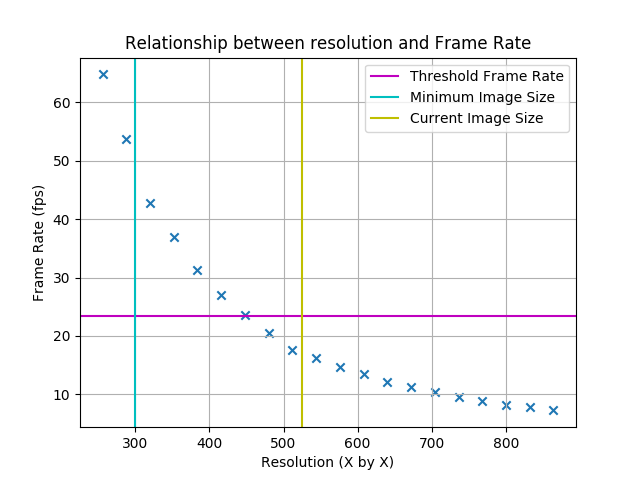
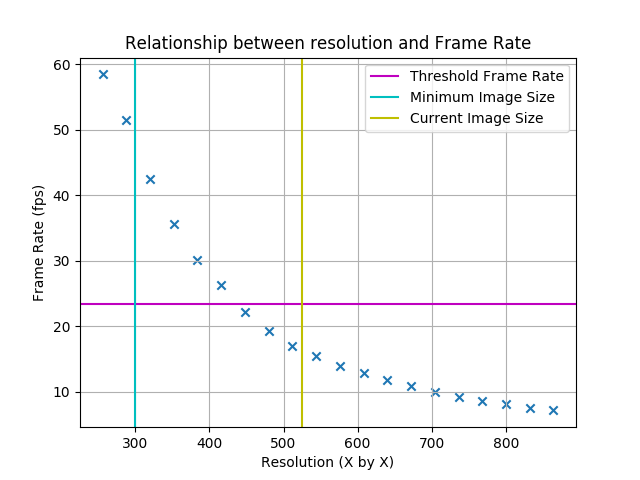
Added framerate script and data file

diff --git a/YUVLumaAnalysis.py b/YUVLumaAnalysis.py
@@ -12,7 +12,7 @@ class YUVLumaAnalysis(array.PiYUVAnalysis):
     #Extends the picamera.array.PiYUVAnalysis class, which has a stub method called analze that is overidden here.
     
     
-    def __init__(self, camera, ref_frames = None, frame_num = 0, make_refs = True, size=None):
+    def __init__(self, camera, ref_frames = None, frame_num = 1, make_refs = True, size=None):
         
         #initialises relevant variables as class attributes. This is the best way i could think of to pass 
         #any external variables needed for analysis to this class (is there a better way? Not sure in Python)
@@ -30,7 +30,8 @@ class YUVLumaAnalysis(array.PiYUVAnalysis):
 
         if make_refs:
             #assuming period is 20 frames for the sake of testing. Will implement period estimation soon
-            self.ref_frames = np.empty([20, self.height, self.width], dtype = np.uint8)            
+            #self.ref_frames = np.empty([20, self.height, self.width], dtype = np.uint8)
+             self.ref_frames = jps.doEstablishPeriodProcessingForFrame(sequence,settings) #Need to specify sequence (video or stack format?) and settings
         else:            
             self.ref_frames = ref_frames
         
@@ -61,7 +62,7 @@ process_times = 20*[0]
 total_times = 20*[0]
 framerates = 20*[0]
 
-framerate = input('Enter Desired Framerate: ')
+framerate = float(input('Enter Desired Framerate: '))
 
 for i in range(20):
     camera = picamera.PiCamera()
@@ -83,11 +84,12 @@ for i in range(20):
     total_times[i] = end-start
     framerates[i] = output.frame_num/(end-start)
 
+    print(camera.exposure_speed/1000000.0)
+    output.sad = output.sad[19:output.frame_num,:]
+    print(output.timer, (output.timer/output.frame_num), output.frame_num, (output.frame_num/output.timer))
+
     camera.close()
 
-    #print(camera.exposure_speed/1000000.0)
-    #output.sad = output.sad[19:output.frame_num,:]
-    #print(output.timer, (output.timer/output.frame_num), output.frame_num, (output.frame_num/output.timer))
 
 
 plt.scatter(x_axis,framerates, marker = 'x')

diff --git a/frame_rate_test.py b/frame_rate_test.py
@@ -1,0 +1,49 @@
+# A python script to obtain the time stamps for various frame rates for the picam
+
+# Imports libraries
+import os
+import numpy as np
+import pandas as pd
+
+
+# Function to obtain the timestamps for a given frame rate
+def get_time_stamps(frame_rate,no_of_entries):
+
+	# Calculates the time needed to obtain the correct number of entries (time is in ms)
+	time = 1000*no_of_entries/frame_rate
+
+	# Launches the camera recording the frame rate and saving the output to a temporary file
+	os.system('raspivid -o temp_vid.h264 -w 300 -h 300 -t '+str(time)+' -fps '+str(frame_rate)+' -pts temp_data.csv -fl -n')
+
+	# Reads the data into an array
+	time_stamp_ary = np.ndarray.flatten(np.array(pd.read_csv('temp_data.csv')))
+
+	# Clears the temporary files
+	os.system('rm temp_vid.h264 temp_data.csv')
+
+	# Returns the array of time stamps
+	return time_stamp_ary
+
+# The main function that loops over frame rates
+def main(frame_rate_start,frame_rate_end,no_of_entries):
+
+	# Defines initial variables
+	frame_rate_ary = np.arange(frame_rate_start,frame_rate_end,1)
+	time_stamp_mtx = np.zeros((len(frame_rate_ary),no_of_entries))
+
+	# Calculates minimum processing time for the user
+	processing_time = np.sum(1/frame_rate_ary)*no_of_entries/60
+	print('Minimum processing time: %.0f minutes.' % processing_time)
+
+	# Loops through frame rates obtaining the time stamp data
+	for i in range(len(frame_rate_ary)):
+
+		temp_ary = get_time_stamps(frame_rate_ary[i],no_of_entries)
+		time_stamp_mtx[i,:len(temp_ary)] = temp_ary
+
+
+	# Saves time stamp data to file
+	pd.DataFrame(time_stamp_mtx).to_csv('time-stamp-'+str(frame_rate_start)+'-'+str(frame_rate_end)+'-'+str(no_of_entries)+'.csv',header=None,index=None)	
+
+main(10,50,100)
+	

diff --git a/SPIM Emulator/jmtaylor-py_sad_correlation-e4068885081d/common/PIVImageWindow.mm b/SPIM Emulator/jmtaylor-py_sad_correlation-e4068885081d/common/PIVImageWindow.mm
@@ -297,7 +297,7 @@ void Check16BitData(ImageWindow<int> &window1)
 		for (; x < w1Width; x++)
 			orRest |= window1.PixelXY(x, y);
 	}
-	int result = orRest // *REMOVED FOR PI* | OrOver32BitInts(&orVec);
+	int result = orRest; // *REMOVED FOR PI* | OrOver32BitInts(&orVec);
 #ifdef Py_ERRORS_H
 	if (result & 0xFFFF0000)
         PyErr_Format(PyErr_NewException((char*)"exceptions.TypeError", NULL, NULL), "ERROR - you passed in values greater than 2^16 - 1 to the fast SAD code!");

diff --git a/SPIM Emulator/jmtaylor-py_sad_correlation-e4068885081d/setup.py b/SPIM Emulator/jmtaylor-py_sad_correlation-e4068885081d/setup.py
@@ -27,7 +27,7 @@ j_py_sad_correlation = Extension('j_py_sad_correlation',
 	include_dirs = ['/usr/local/include', numpy.get_include()],
 	sources = ['j_py_sad_correlation.cpp', 'common/jPythonArray.cpp', 'common/jPythonCommon.cpp', 'common/PIVImageWindow.cpp', 'common/jAssert.cpp', 'common/DebugPrintf_Unix.cpp'],
 	extra_link_args = ARCH,
-	extra_compile_args = ['-O4', '-mssse3'] + ARCH
+	extra_compile_args = ['-O4'] + ARCH
 )
 BUILD_MODULES.append(j_py_sad_correlation)
 

diff --git a/camera.py b/camera.py
@@ -1,11 +1,16 @@
 from picamera import PiCamera
 from time import sleep
+import sys
+
 
 #inital camera test
+camera = PiCamera() 
 
-camera = PiCamera()
+# Sets Picam resolution
+camera.resolution = (1024, 768)
+
+# Previews the camera for a time specified as a command line argument (in seconds)
 camera.rotation = 180
-
 camera.start_preview()
-sleep(10)
+sleep(float(sys.argv[1]))
 camera.stop_preview()
